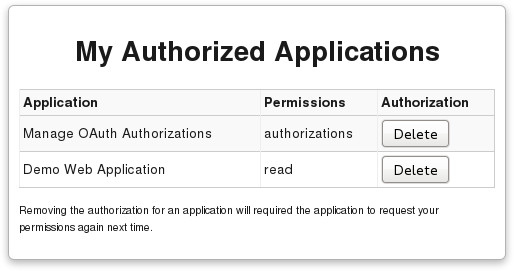
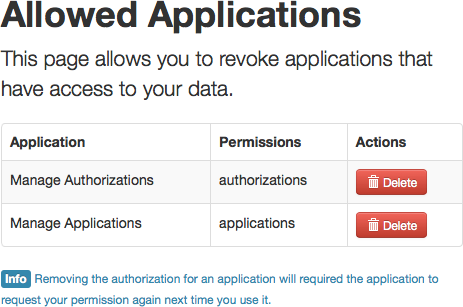
use bootstrap for styling

Changed region(s): [[0.0, 0.0, 1.0, 1.0]]

diff --git a/index.html b/index.html
@@ -1,40 +1,47 @@
 <!DOCTYPE html>
 <html>
-  <head>
+<head>
     <meta charset="utf-8">
-    <meta name="HandheldFriendly" content="true" />
-    <meta name="viewport" content="width=device-width, initial-scale=1, maximum-scale=1">
-    <title>Authorizations</title>
-    <script src="ext/js/jquery.js"></script>
-    <script src="ext/js/jsrender.js"></script>
-    <script src="ext/js/jso.js"></script>
-    <script src="js/manage.js"></script>
-    <link rel="stylesheet" type="text/css" href="css/default.css">
-  </head>
-
-  <body>
-  
-    <div id="wrapper">
+    <title>Allowed Applications</title>
+    <!-- Bootstrap -->
+    <link href="ext/bootstrap/css/bootstrap.min.css" rel="stylesheet">
+    <meta name="viewport" content="width=device-width, initial-scale=1.0">
+    <link href="ext/bootstrap/css/bootstrap-responsive.css" rel="stylesheet">
+</head>
+<body>
+    <div class="container">
         <div id="authorizedApplications">
-            <h1>Authorizations</h1>
+            <h1>Allowed Applications</h1>
 
-            <table id="authorizedApplicationsTable">
+            <p class="lead">This page allows you to revoke applications that have access to your data.</p>
+
+            <table id="authorizedApplicationsTable" class="table table-striped table-bordered">
+            <thead>
                 <tr><th>Application</th><th>Permissions</th><th>Actions</th></tr>
-            	<tbody id="authorizedApplicationsList"></tbody>
+            </thead>
+            	<tbody id="authorizedApplicationsList">
+
+            </tbody>
             </table>
 
-            <p><small>Removing the authorization for an application will required the application to request your permission again next time.</small></p>
-        </div>
+            <p class="text-info"><span class="label label-info">Info</span> <small>Removing the authorization for an application will required the application to request your permission again next time you use it.</small></p>
+        </div> <!-- /authorizedApplications -->
     </div> <!-- /wrapper -->
     
     <script id="authorizedApplicationsListTemplate" type="text/x-jsrender">
         <tr>
-            <td class="left"><span title="{{:description}}">{{:name}}</span></td>
-            <td class="left">{{:scope}}</td>
-            <td class="right">
-                <button class="deleteAuthorization" data-client-name="{{:name}}" data-client-id="{{:id}}" href="#">Delete</button>
+            <td><span title="{{:description}}">{{:name}}</span></td>
+            <td>{{:scope}}</td>
+            <td>
+                <button class="btn btn-danger btn-small deleteAuthorization " data-client-name="{{:name}}" data-client-id="{{:id}}" href="#"><i class="icon-trash icon-white"></i> Delete</button>
             </td>
         </tr>
     </script>
-  </body>
+
+    <script src="ext/js/jquery.js"></script>
+    <script src="ext/js/jsrender.js"></script>
+    <script src="ext/js/jso.js"></script>
+<!--    <script src="ext/bootstrap/js/bootstrap.min.js"></script> -->
+    <script src="js/manage.js"></script>
+</body>
 </html>
